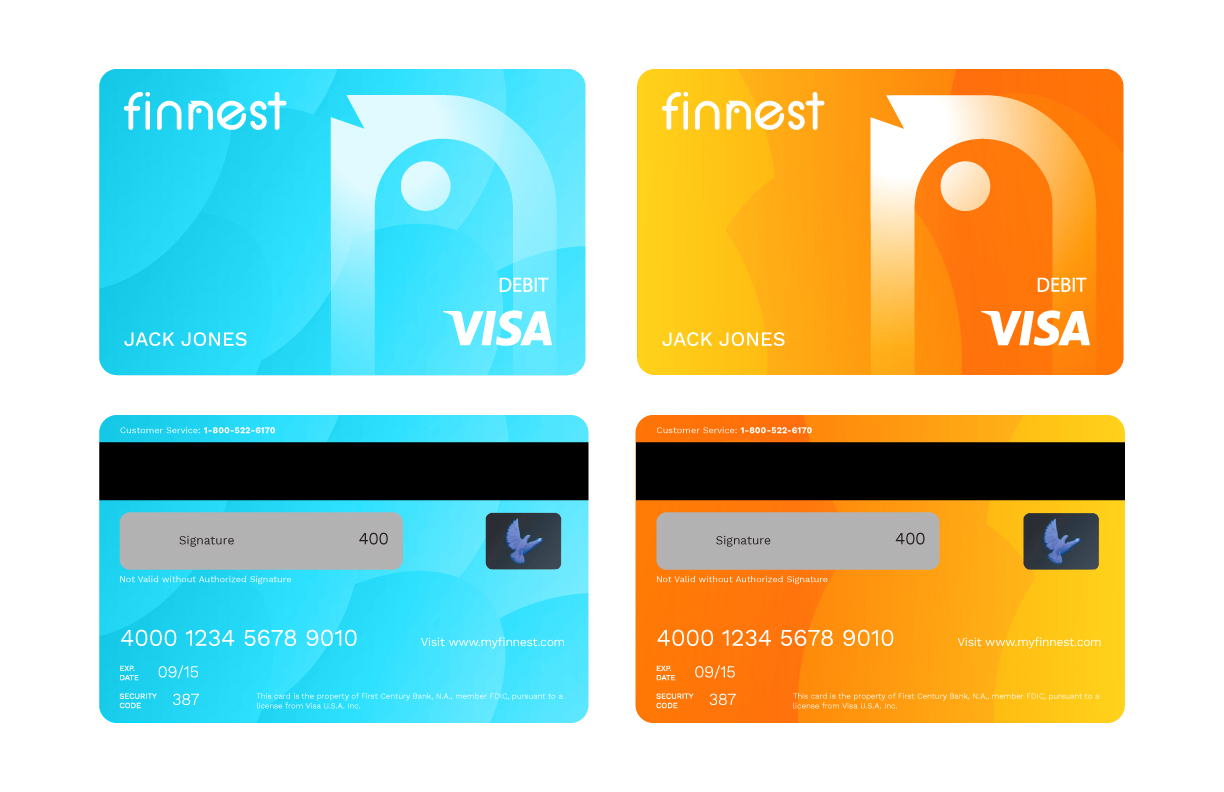
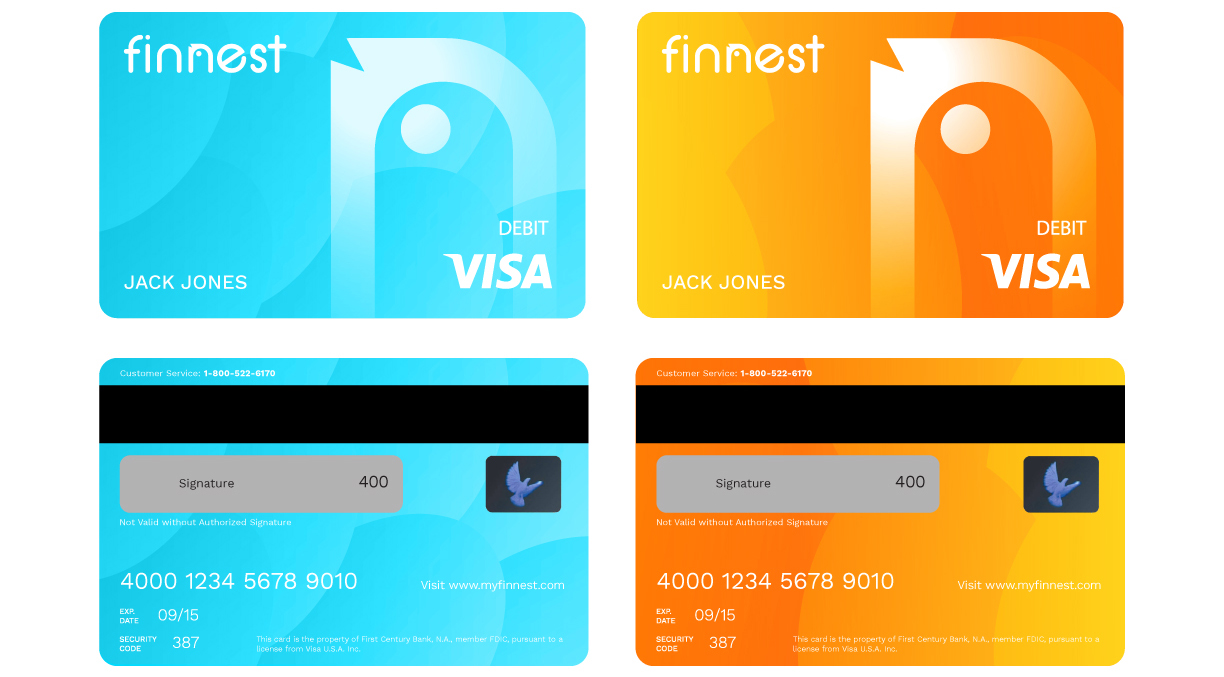
size down

diff --git a/RI.html b/RI.html
@@ -37,9 +37,15 @@
                 
                 <p class="fifty">
                     The aptly titled &ldquo;State of Rhode Island Calendar of Events&rdquo; is a resourceful app and website featuring goings-on in Rhode Island.
-                    <br><br>
-                    Upon opening the app, one is confronted with a chronological list of all events. They have the option to either explore all events by scrolling, or refine the list. 
                 </p>
+        </section>
+        <section class="container">
+                <img src="RI/cover-iphone.jpg" alt="meadows1" class="pImg3">
+        </section>
+        <section class="container">
+            <p>
+                    Upon opening the app, one is confronted with a chronological list of all events. They have the option to either explore all events by scrolling, or refine the list. 
+            </p>
         </section>
         <section class="container2">
                 <img src="RI/m1.png" alt="RI1" class="pImg1">
@@ -75,7 +81,7 @@
         </section>
         <section class="container">
             <h3>
-                The practically indecipherable original sketches: 
+                Sketching for the calendar: 
                 </h3>
         </section>
         <section class="container">

diff --git a/index.html b/index.html
@@ -75,7 +75,7 @@
 			<div class = "image2">
 				<a class="clickable-container" href="equallyseeded.html">
 				<img src="equal/apple.png" alt="equal" width="400px" height="auto" class="project"><div class="overlay">
-      				<div class="overlay-content"> Logo Design<br> Brand Identity Design</div>
+      				<div class="overlay-content"> Logo Design<br> Brand Identity Design<br>Naming</div>
     			</div></a>
 			 </div> 
 			<div class = "image1">

diff --git a/joseph.css b/joseph.css
@@ -143,14 +143,14 @@ ul{
 }
 
 .image1{
-    width: 50%;
+    width: 49%;
  }
 .image1{
     cursor: pointer;
     /*transition: 0.1s;*/
 }
 .image2{
-    width: 40%;
+    width: 39%;
 }
 .image2{
     cursor: pointer;
@@ -250,10 +250,10 @@ p{
 }
 
 .pImg1{
-    width: 50%;
+    width: 49%;
 }
 .pImg2{
-    width: 40%;
+    width: 39%;
 }
 .pImg3{
     width: 100%;

diff --git a/parasite.html b/parasite.html
@@ -44,7 +44,7 @@
         </section><br><br><br>
         
        <section class="container2">
-                <img src="parasite/logo1.gif" alt="parasite1" class="pImg1">
+                <img src="parasite/animate-front.gif" alt="parasite1" class="pImg2">
         </section> 
         <section class="container">
             <p class="fifty">
